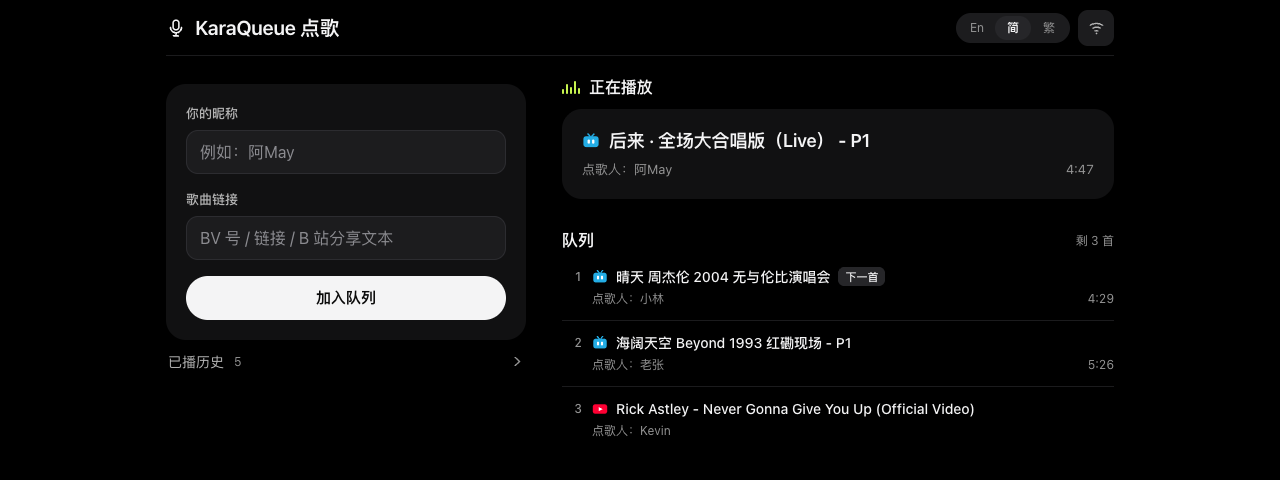
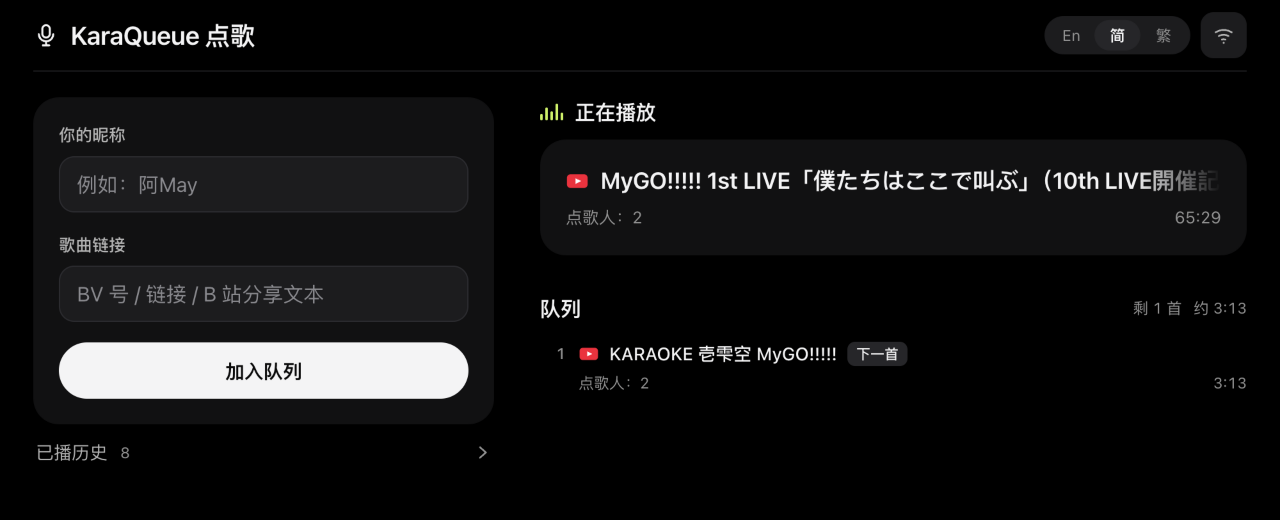
chore(release): prepare v1.1.0
Bump package.json and the extension manifest to 1.1.0, refresh the admin
and request screenshots for the new layout and queue total, update the
README copy for Windows proxy support and admin-only history tools, and
add an English CHANGELOG for the release.

diff --git a/README.md b/README.md
@@ -1,6 +1,6 @@
 # KaraQueue
 
-> [English](README.md) · [简体中文](README_zh-sc.md)
+> [English](README.md) · [简体中文](README_zh-sc.md) · [Changelog](CHANGELOG.md)
 
 [![Release](https://img.shields.io/github/v/release/GarytheNoob/karaqueue)](https://github.com/GarytheNoob/karaqueue/releases/latest)
 [![Downloads](https://img.shields.io/github/downloads/GarytheNoob/karaqueue/total)](https://github.com/GarytheNoob/karaqueue/releases/latest)
@@ -18,7 +18,7 @@ A LAN karaoke queue machine. Guests submit bilibili or YouTube videos from their
 
 <div align="center">
 
-| ![](docs/images/admin.png) | ![](docs/images/popup.png) |
+| <img src="docs/images/admin.png" alt="KaraQueue admin console" width="640"> | <img src="docs/images/popup.png" alt="KaraQueue extension popup" width="300"> |
 |:---:|:---:|
 | admin console | extension popup |
 
@@ -28,9 +28,9 @@ A LAN karaoke queue machine. Guests submit bilibili or YouTube videos from their
 
 - **Phone-first submitting.** The form accepts BV ids, av ids, full watch URLs, multi-part `?p=N` links and `b23.tv` short links; YouTube `watch?v=`, `youtu.be` and shorts links; and raw share text copied from either mobile app. Each part (P) of a multi-part bilibili video counts as one track. Playlists never expand; a YouTube link with `list=` queues that single video.
 - **Instant playback.** A submission while the room is idle starts playing immediately and every client follows. A queued track plays next when the current one ends — the extension does the switching, so the session needs no clicks after the first one.
-- **Host controls.** Skip, delete, reorder (drag, to-front button, or arrow keys), and re-request any played track — from the admin console or the extension popup.
+- **Host controls.** Skip, delete, reorder (drag, to-front button, or arrow keys), and re-request any played track — from the admin console; skip is also in the extension popup.
 - **Two room rules.** Allow the same track in the queue more than once; fair rotation, one song per guest.
-- **Withdraw and history.** Guests can withdraw their own requests anytime; played tracks stay in a history where one tap puts a song back in the queue. The admin console can export that history as a UTF-8 CSV or clear it when the night is over.
+- **Withdraw and history.** Guests can withdraw their own requests anytime; played tracks stay in a history. The admin console can re-request an entry, export the history as a UTF-8 CSV, or clear it when the night is over.
 - **Real-time, sized for phones.** Every change rides on SSE, around 20 ms. Mobile browsers freeze background tabs and drop SSE connections, so each page re-syncs on refocus and polls every 5 seconds while visible.
 - **Fully offline LAN stack.** Server, both pages and the extension are vanilla JS with zero dependencies; no CDN assets or fonts, everything ships in this repository.
 - **Three interface languages** (English / Simplified / Traditional) with a header switcher; server-generated messages follow the chosen page language.
@@ -40,7 +40,7 @@ About metadata: bilibili throttles its metadata API under load (often HTTP 412),
 
 ## Build and Install
 
-**Requirements:** Node ≥ 18 (for the built-in fetch). Fetching YouTube metadata may also need a proxy, see [Troubleshooting](#errors-and-troubleshooting).
+**Requirements:** Node ≥ 18 (for the built-in fetch). The server runs on macOS, Windows and Linux; on Windows it reads the system proxy and Wi-Fi SSID automatically. Fetching YouTube metadata may also need a proxy, see [Troubleshooting](#errors-and-troubleshooting).
 
 ### Server
 
@@ -57,7 +57,7 @@ Devices on the LAN use `http://<machine-LAN-IP>:7777` (on macOS, `ipconfig getif
 | `PORT` / `HOST` | page server port (default 7777) / bind address |
 | `ADMIN_PORT` | admin console port, default 7778 |
 | `KARAQUEUE_VIEW_API` / `KARAQUEUE_SPI_API` | override the bilibili endpoints (testing); `KARAQUEUE_OEMBED_API` / `KARAQUEUE_YT_PLAYER_API` / `KARAQUEUE_YT_WATCH_PAGE` override the YouTube ones |
-| `KARAQUEUE_PROXY` | force a proxy for cross-network requests, `host:port` or `http://host:port`. Unset: reads `HTTPS_PROXY`, then the macOS system proxy. Public hosts only; localhost, LAN and bilibili always connect direct |
+| `KARAQUEUE_PROXY` | force a proxy for cross-network requests, `host:port` or `http://host:port`. Unset: reads `HTTPS_PROXY`, then the macOS/Windows system proxy. Public hosts only; localhost, LAN and bilibili always connect direct |
 
 ### Browser extension
 
@@ -94,7 +94,7 @@ Guests never install anything: phones just open `http://<machine-LAN-IP>:7777`.
 - Long titles never wrap: hovering (or tapping on touch) sweeps the title left until its end is visible, then stops. Titles that already fit never scroll.
 - Submit and withdraw results appear as short toasts at the bottom; failures repeat the server's localized sentence and disappear after 4.5 seconds (click to dismiss sooner).
 - A collapsible drawer (☰ in the header) shows the host's Wi-Fi name and LAN address plus a QR code that opens the request page. The QR encodes the address the request actually arrived on, so VPN or tunnel interfaces do not break it.
-- The played history lives on a second page, oldest first with sequence numbers — 1 is the first song of the night; "play again" re-queues an entry.
+- The played history lives on a second page, oldest first with sequence numbers — 1 is the first song of the night.
 - The mobile page has no skip button; skipping is the host's job.
 
 ### Host (admin console / popup)
@@ -102,6 +102,7 @@ Guests never install anything: phones just open `http://<machine-LAN-IP>:7777`.
 - Skip the current track immediately — popup or console.
 - Manage the queue: delete (✕), drag by the grip handle, "to front" button, or ArrowUp/ArrowDown on a focused grip.
 - Re-request any played track: it jumps back into the queue and starts right away if the room is idle.
+- Export the played history as a UTF-8 CSV, or clear it when the night is over — admin console only.
 
 ### Room rules
 
@@ -119,7 +120,7 @@ Both pages carry an `En | 简 | 繁` segmented switcher (a sliding pill, not a d
 - **Popup raises `TypeError: Failed to fetch`:** nothing answered at the configured address. Check the server runs on the host machine (`node server/karaoke.mjs`), then open `http://<host-ip>:7777/api/state` in a browser — a JSON blob confirms the server is up.
 - **Popup raises `Unexpected token '<', "<!DOCTYPE "... is not valid JSON`:** the configured address served an HTML page instead of KaraQueue's JSON, almost always another web service on port 80 (e.g. a router admin page) because the `:7777` port is missing. The address must look like `http://192.168.1.5:7777`.
 - **No automatic switching or skipped reports are ignored (Firefox):** the extension lacks site access. Open `about:addons` → KaraQueue → Permissions, or press **Save** in the popup and approve the prompt again.
-- **A YouTube entry stays "metadata missing" and always queues link-only:** the server cannot reach youtube.com directly and found no usable proxy. Turn on the macOS system proxy (HTTP mode, not SOCKS-only) or set `KARAQUEUE_PROXY=127.0.0.1:7890` with your proxy's port, then restart the server. The startup log names the proxy it found.
+- **A YouTube entry stays "metadata missing" and always queues link-only:** the server cannot reach youtube.com directly and found no usable proxy. Turn on the macOS/Windows system proxy (HTTP mode, not SOCKS-only) or set `KARAQUEUE_PROXY=127.0.0.1:7890` with your proxy's port, then restart the server. The startup log names the proxy it found.
 - **The big screen keeps opening new tabs:** the extension there predates the tab-reuse fix; reload it in `chrome://extensions` (or `about:debugging`).
 - **A page looks stale after a skip or another change:** mobile browsers freeze background tabs and drop the SSE connection. Bring the tab to the foreground — each page re-syncs on refocus and polls every 5 seconds while visible.
 - **Switching lags or misfires around track end:** the player's own autoplay races the extension. Turn off bilibili's native "auto-play next" toggle and YouTube's "Autoplay next video".
@@ -159,7 +160,7 @@ Queue state lives in `server/queue.json` and the metadata cache in `server/meta-
 
 ### Known limits
 
-- LAN only, plain http, no TLS and no login — anyone on the network can open the admin console.
+- LAN only, plain http, no TLS and no login — anyone on the network can open the admin console, delete queue items, or clear history.
 - bilibili and YouTube only; playlists act as one video; niconico is out of scope.
 - Server and big-screen browser need a network path that reaches YouTube (direct or via proxy); bilibili always connects direct.
 - Fair rotation and withdrawal ownership are per browser (a uid cookie), not per nickname.

diff --git a/README_zh-sc.md b/README_zh-sc.md
@@ -1,6 +1,6 @@
 # KaraQueue
 
-> [English](README.md) · [简体中文](README_zh-sc.md)
+> [English](README.md) · [简体中文](README_zh-sc.md) · [更新日志](CHANGELOG.md)
 
 [![Release](https://img.shields.io/github/v/release/GarytheNoob/karaqueue)](https://github.com/GarytheNoob/karaqueue/releases/latest)
 [![Downloads](https://img.shields.io/github/downloads/GarytheNoob/karaqueue/total)](https://github.com/GarytheNoob/karaqueue/releases/latest)
@@ -18,7 +18,7 @@
 
 <div align="center">
 
-| ![](docs/images/admin.png) | ![](docs/images/popup.png) |
+| <img src="docs/images/admin.png" alt="KaraQueue 管理后台" width="640"> | <img src="docs/images/popup.png" alt="KaraQueue 插件弹窗" width="300"> |
 |:---:|:---:|
 | 管理后台 | 插件弹窗 |
 
@@ -28,9 +28,9 @@
 
 - **手机优先的点歌。** 表单认得 BV 号、av 号、完整网页链接、`?p=N` 分 P 链接和 `b23.tv` 短链；YouTube 的 `watch?v=`、`youtu.be`、shorts 链接；还有两家手机 App 的分享原文。B 站多 P 按单 P 算一首。歌单一律不展开；带 `list=` 的 YouTube 链接只入队单个视频。
 - **即刻开播。** 房间空闲时提交的歌立刻开播，所有客户端跟着切；队列里的歌唱完自动切下一首——切歌由插件完成，整晚只有第一次手势。
-- **房主控制。** 跳过、移出、调序（拖拽 / 置顶按钮 / 方向键）、重播已播歌曲——在管理后台或插件弹窗里做。
+- **房主控制。** 跳过、移出、调序（拖拽 / 置顶按钮 / 方向键）、重播已播歌曲——在管理后台做；跳过也可以从插件弹窗发起。
 - **两条房间规则。** 允许队列重复点同一首；公平轮唱，每人限一首。
-- **撤回与历史。** 客人随时能撤回自己点的歌；播过的进已播历史，一键回队。管理后台可以把历史导出为 UTF-8 CSV，或在一晚结束后清空。
+- **撤回与历史。** 客人随时能撤回自己点的歌；播过的进已播历史。管理后台可以重播某一条、把历史导出为 UTF-8 CSV，或在一晚结束后清空。
 - **实时，为手机优化。** 所有变更走 SSE，实测约 20 ms。手机浏览器会冻结后台标签、掐断 SSE，所以每个页面回前台即对账，可见期间每 5 秒轮询兜底。
 - **完全离线的局域网栈。** 服务端、两个页面和插件都是原生 JS，零依赖；不取任何 CDN 资源或字体，全部东西都在这个仓库里。
 - **三语界面**（英 / 简 / 繁），页头切换；服务端生成的提示跟随页面所选语言。
@@ -40,7 +40,7 @@
 
 ## 构建与安装
 
-**要求：Node ≥ 18**（用内置 fetch）。抓 YouTube 元数据可能还需要代理，见[错误排查](#错误排查)。
+**要求：Node ≥ 18**（用内置 fetch）。服务端可跑在 macOS、Windows 和 Linux；Windows 上会自动读取系统代理和 Wi-Fi 名称。抓 YouTube 元数据可能还需要代理，见[错误排查](#错误排查)。
 
 ### 服务端
 
@@ -57,7 +57,7 @@ node server/karaoke.mjs            # 默认监听 0.0.0.0:7777，管理后台 0.
 | `PORT` / `HOST` | 点歌页端口（默认 7777）/ 绑定地址 |
 | `ADMIN_PORT` | 管理后台端口，默认 7778 |
 | `KARAQUEUE_VIEW_API` / `KARAQUEUE_SPI_API` | 覆盖 B 站接口地址（测试用）；`KARAQUEUE_OEMBED_API` / `KARAQUEUE_YT_PLAYER_API` / `KARAQUEUE_YT_WATCH_PAGE` 同理覆盖 YouTube |
-| `KARAQUEUE_PROXY` | 跨网请求强制走代理，写法 `host:port` 或 `http://host:port`。不设时读 `HTTPS_PROXY`，再退回 macOS 系统代理。只对公网目标生效；本机、局域网和 B 站一律直连 |
+| `KARAQUEUE_PROXY` | 跨网请求强制走代理，写法 `host:port` 或 `http://host:port`。不设时读 `HTTPS_PROXY`，再退回 macOS / Windows 系统代理。只对公网目标生效；本机、局域网和 B 站一律直连 |
 
 ### 浏览器插件
 
@@ -94,7 +94,7 @@ node server/karaoke.mjs            # 默认监听 0.0.0.0:7777，管理后台 0.
 - 长标题不折行：悬停（触屏则点一下）才向左滚一遍，滚到末尾停住；放得下的标题不滚。
 - 提交和撤回的结果用屏幕底部的短 toast；失败会原样复述服务器的本地化句子，4.5 秒后消失（点击可提前关掉）。
 - 页头可折叠抽屉（☰）显示主机的 Wi-Fi 名称、局域网地址和直达点歌页的二维码。二维码编码的是当前请求实际到达的地址，VPN、隧道接口不会把它带偏。
-- 已播历史在二级页面，旧的在上、带序号——序号 1 是全场第一首；"再点一次"把歌曲排回队列。
+- 已播历史在二级页面，旧的在上、带序号——序号 1 是全场第一首。
 - 手机端没有跳过按钮，切歌是房主的职责。
 
 ### 房主（管理后台 / 插件弹窗）
@@ -102,6 +102,7 @@ node server/karaoke.mjs            # 默认监听 0.0.0.0:7777，管理后台 0.
 - 跳过当前曲目，立即生效——弹窗或后台都能发。
 - 管理队列：移出（✕）、按住把手拖拽、"提前"一键置顶、聚焦把手后按 ↑ / ↓ 方向键。
 - 重播已播的任意一首：排回队列；房间空闲时立刻开播。
+- 把已播历史导出为 UTF-8 CSV，或在一晚结束后清空——仅管理后台。
 
 ### 房间规则
 
@@ -119,7 +120,7 @@ node server/karaoke.mjs            # 默认监听 0.0.0.0:7777，管理后台 0.
 - **弹窗报 `TypeError: Failed to fetch`：** 配置的地址没有应答。先确认服务在大屏机器上跑着（`node server/karaoke.mjs`），再用浏览器开 `http://<大屏 IP>:7777/api/state`，能看到 JSON 就说明服务正常。
 - **弹窗报 `Unexpected token '<', "<!DOCTYPE "... is not valid JSON：** 配置的地址返回了网页而不是 KaraQueue 的 JSON，基本都是漏了 `:7777`、请求打到了 80 端口的别的服务（比如路由器管理页）。地址要写成 `http://192.168.1.5:7777` 这种形式。
 - **不自动切歌 / 跳过上报被无视（Firefox）：** 插件没有站点访问权限。开 `about:addons` → KaraQueue → 权限，或在弹窗里点一次**保存**并再次批准授权。
-- **YouTube 条目一直"元数据未获取"、总按纯链接入队：** 服务器直连不上 youtube.com，也没找到代理。打开 macOS 系统代理（HTTP 模式，只开 SOCKS 不算），或设 `KARAQUEUE_PROXY=127.0.0.1:7890`（端口填代理的），然后重启服务端。启动日志会写它发现了哪个代理。
+- **YouTube 条目一直"元数据未获取"、总按纯链接入队：** 服务器直连不上 youtube.com，也没找到代理。打开 macOS / Windows 系统代理（HTTP 模式，只开 SOCKS 不算），或设 `KARAQUEUE_PROXY=127.0.0.1:7890`（端口填代理的），然后重启服务端。启动日志会写它发现了哪个代理。
 - **大屏不停开新标签页：** 那台机上的插件是旧版。到 `chrome://extensions`（或 `about:debugging`）重载一次。
 - **页面在跳过等操作后没跟上：** 手机浏览器冻结后台标签、掐断 SSE。把标签切回前台——回前台即对账，可见期间每 5 秒轮询兜底。
 - **切歌在歌曲结尾附近变慢或抢跳：** 播放器自身的连播在和插件抢。关掉 B 站"自动连播"，关掉 YouTube 的"自动播放下一个视频"。
@@ -159,7 +160,7 @@ node server/karaoke.mjs            # 默认监听 0.0.0.0:7777，管理后台 0.
 
 ### 已知限制
 
-- 仅限局域网，明文 http，无 TLS、无登录——局域网里的任何人都能打开管理后台。
+- 仅限局域网，明文 http，无 TLS、无登录——局域网里的任何人都能打开管理后台、移出队列或清空历史。
 - 仅 B 站和 YouTube；歌单按单个视频处理；niconico 暂未纳入。
 - 服务端和大屏浏览器都需要能连上 YouTube 的网络路径（直连或代理）；B 站一律直连。
 - 公平轮唱和撤回的归属按浏览器（uid Cookie）算，不按昵称。

diff --git a/CHANGELOG.md b/CHANGELOG.md
@@ -1,0 +1,57 @@
+# Changelog
+
+All notable changes to KaraQueue are documented here. The project follows
+[Semantic Versioning](https://semver.org/) and the format is based on
+[Keep a Changelog](https://keepachangelog.com/en/1.1.0/).
+
+## [1.1.0] - 2026-11-25
+
+### Added
+
+- Windows host support: Wi-Fi SSID lookup through `netsh`, Windows system
+  proxy detection from the registry, and state-file write retries around
+  transient antivirus/indexer locks.
+- YouTube duration metadata: the server asks the keyless InnerTube player
+  endpoint first and falls back to the watch page. Missing durations are no
+  longer cached as zero, existing queue and history entries are backfilled
+  on startup, and the extension reports the player's real `video.duration`
+  during playback.
+- Remaining queue time on the request page, shown beside the queue count.
+- Admin history tools: export played history as a UTF-8 CSV
+  (`status,requested_by,url,title`, with BOM and CRLF), and clear history
+  through an inline two-step confirmation. Both controls are available only
+  on the admin port (7778).
+
+### Changed
+
+- Moved the request-rule switches above the queue and history lists in the
+  admin console.
+- Startup logs now show `http://127.0.0.1:...` instead of the unroutable
+  `0.0.0.0`/`::` bind address.
+- The extension manifest and `package.json` are both 1.1.0.
+
+### Fixed
+
+- b23 short-link expansion now validates the real hostname and limits every
+  redirect hop to Bilibili domains, closing a server-side request forgery
+  path.
+- Concurrent `VIDEO_ENDED` reports are serialized in the extension and
+  guarded by an expected current track id on the server, so duplicate
+  reports can no longer skip the next queued song.
+- YouTube bot walls no longer leave durations stuck at zero; the player
+  endpoint and the extension's real-duration report provide fallbacks.
+- The LAN QR code prefers physical Wi-Fi/Ethernet interfaces over VPN and
+  virtual adapters.
+- Windows state saves retry atomic renames after transient `EPERM`/`EACCES`
+  locks.
+
+### Upgrade notes
+
+- Restart the server after upgrading; old YouTube queue and history entries
+  backfill their durations in the background.
+- Reload the extension from the 1.1.0 release zip to get duration reporting
+  and the duplicate-ended-report guard.
+- History export and clear are admin-only; the public request page remains
+  read-only.
+
+[1.1.0]: https://github.com/GarytheNoob/karaqueue/compare/v1.0.0...v1.1.0
